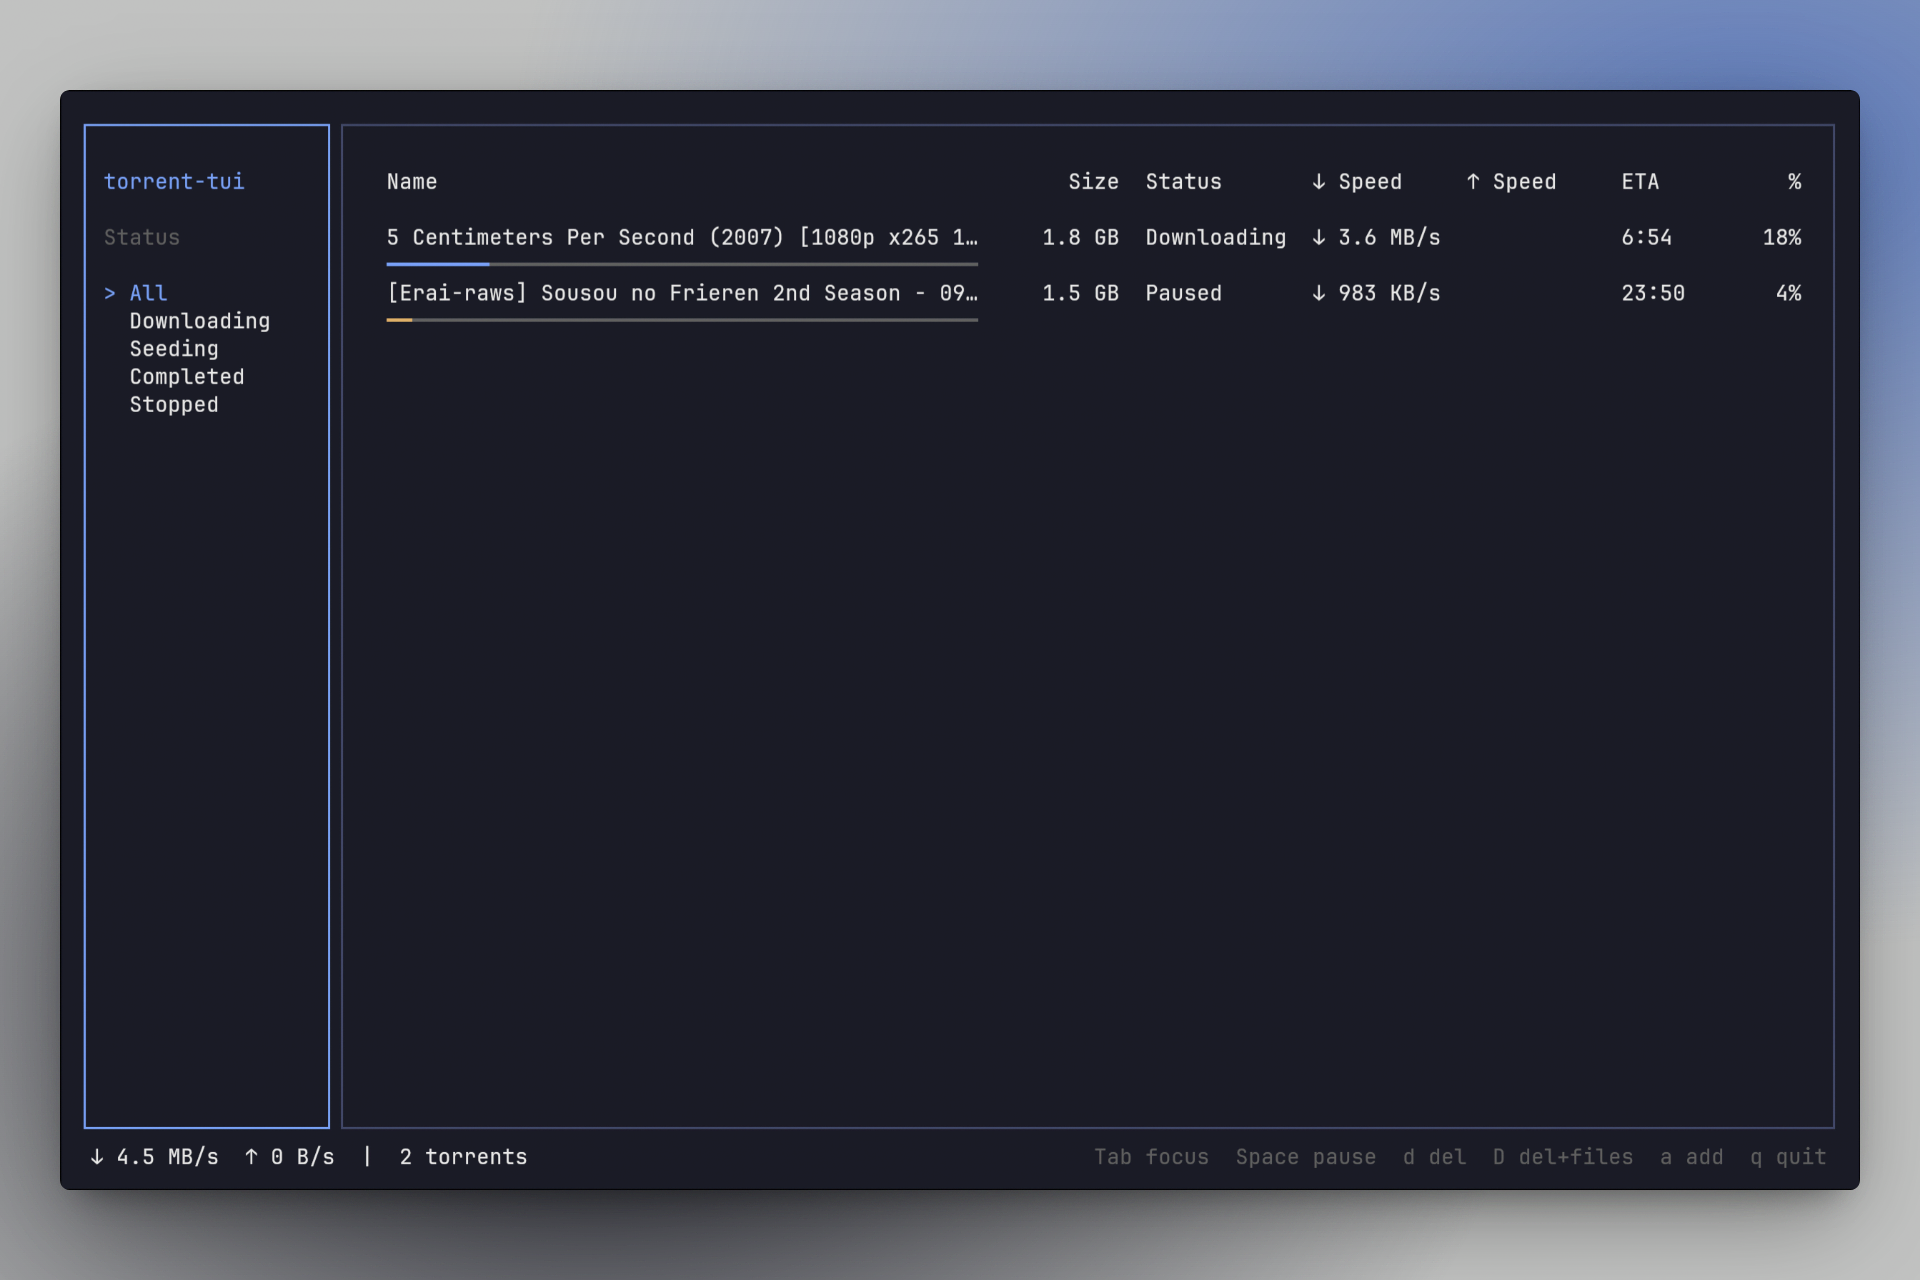
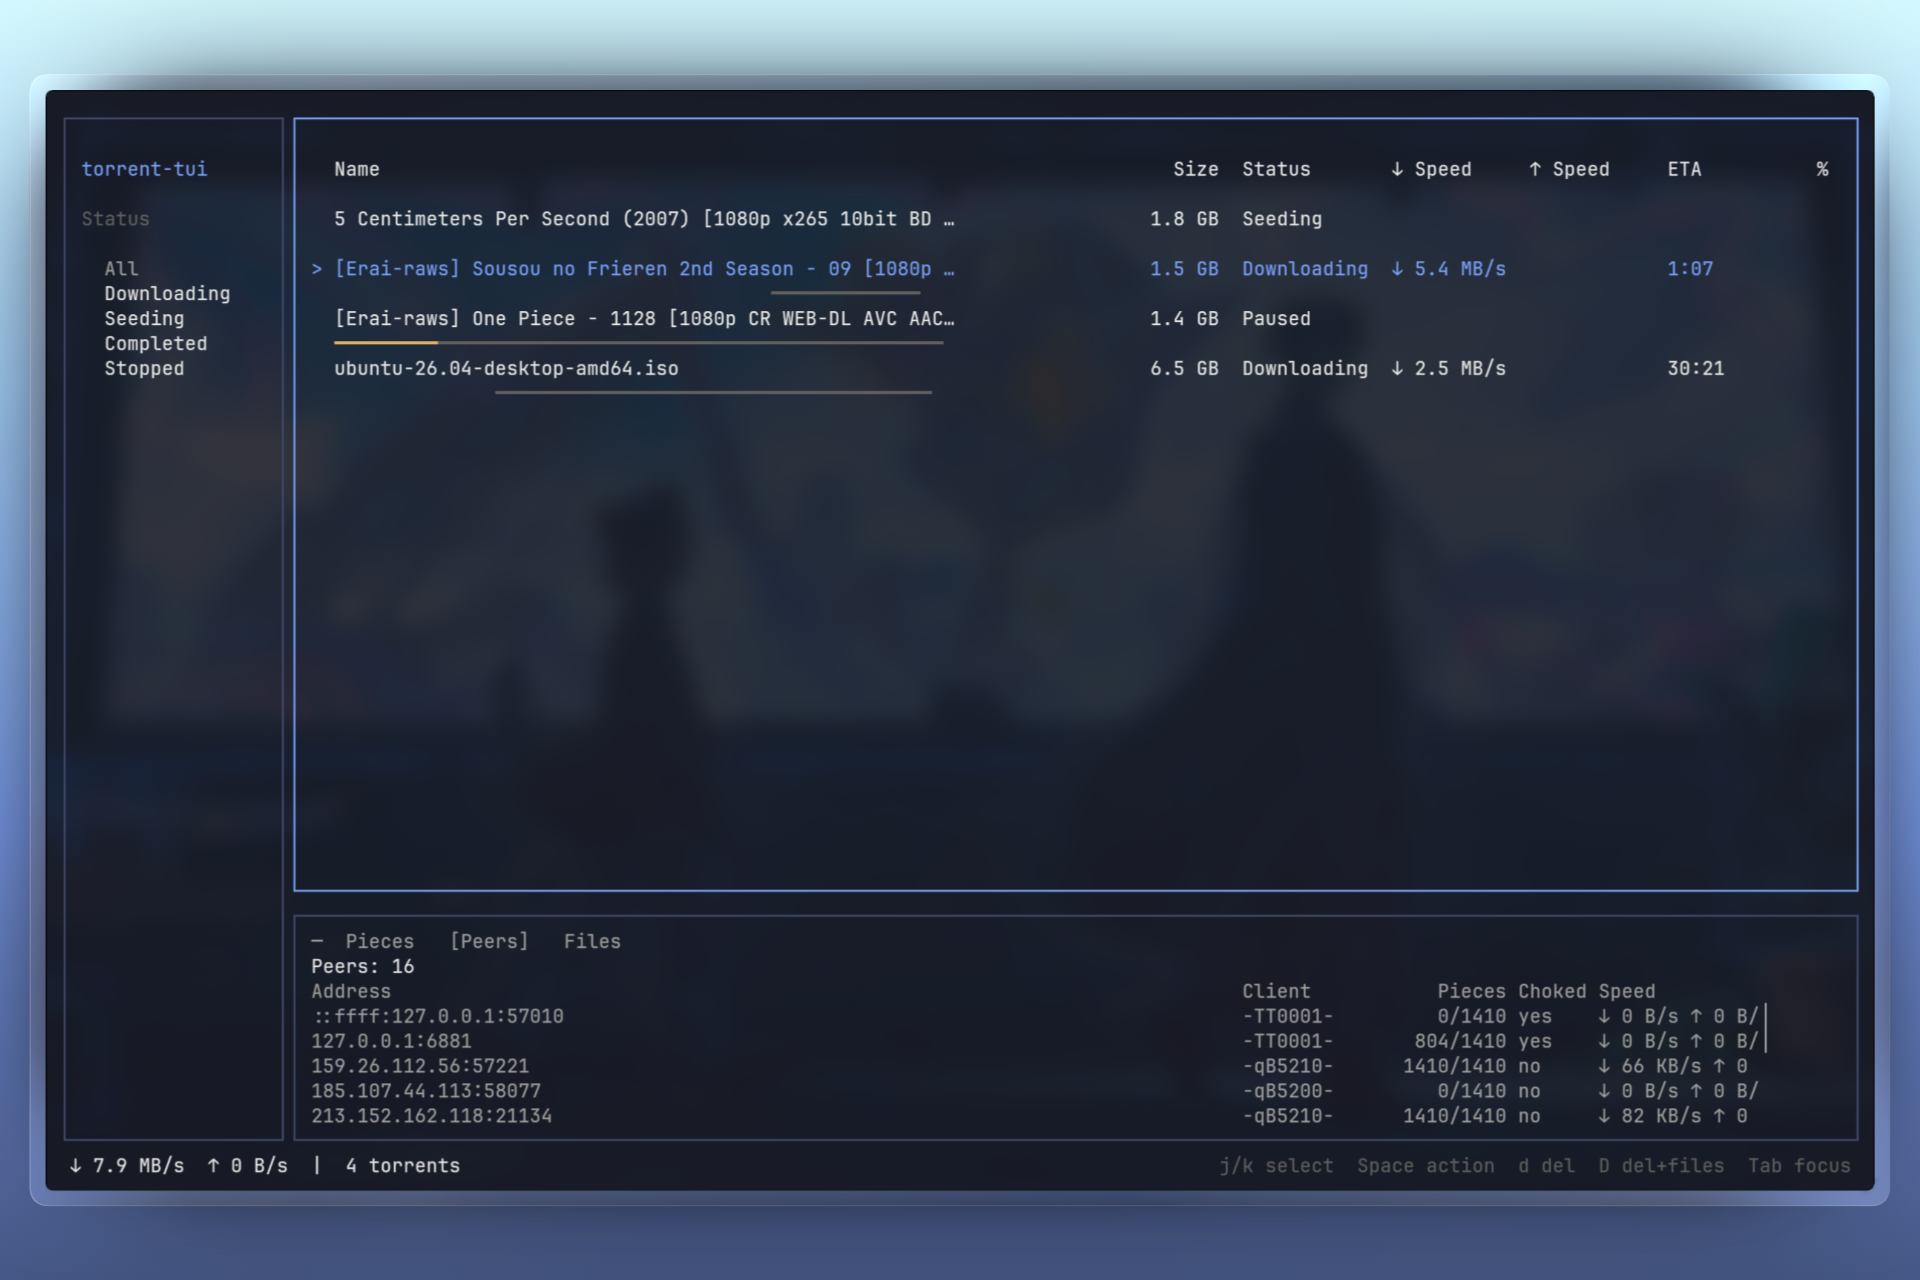
fix: normalize path separators in abbreviateHomePath and remove dead get_peers.ts

diff --git a/src/layout/detail-panel.ts b/src/layout/detail-panel.ts
@@ -43,11 +43,12 @@ function formatSpeed(bps: number): string {
 	return `${formatBytes(bps)}/s`;
 }
 
-function abbreviateHomePath(path: string): string {
-	const home = homedir();
-	if (path === home) return "~";
-	if (path.startsWith(`${home}/`)) {
-		return `~${path.slice(home.length)}`;
+export function abbreviateHomePath(path: string): string {
+	const normalizedPath = path.replace(/\\/g, "/");
+	const normalizedHome = homedir().replace(/\\/g, "/");
+	if (normalizedPath === normalizedHome) return "~";
+	if (normalizedPath.startsWith(`${normalizedHome}/`)) {
+		return `~${normalizedPath.slice(normalizedHome.length)}`;
 	}
 	return path;
 }
